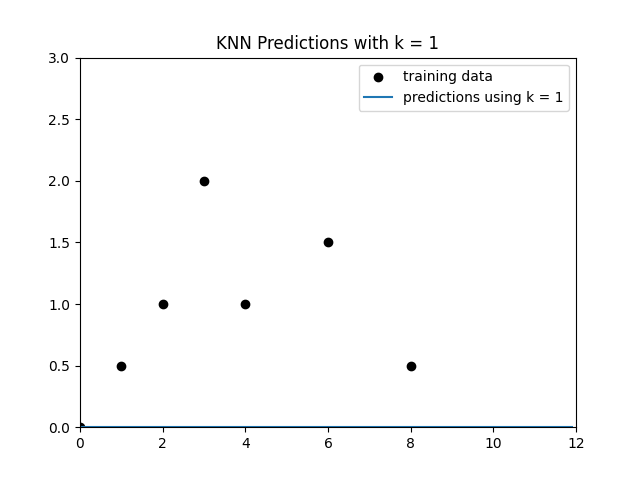
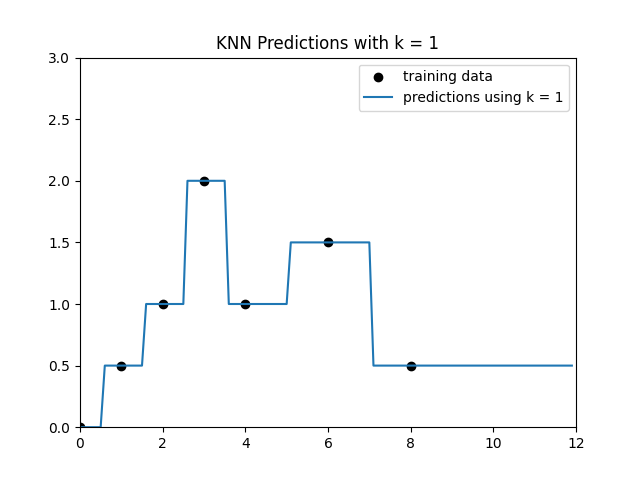
T1_P1 & working on T1_P2

diff --git a/HW1/T1_P2.py b/HW1/T1_P2.py
@@ -34,7 +34,7 @@ def takeSecond(elem):
     _, kernel_reg = elem
     return kernel_reg
 
-def predict_knn(k, tau=1):
+def predict_knn(k, tau):
     """Returns predictions for the values in x_test, using KNN predictor with the specified k.""" 
     y_test = np.zeros(len(x_test))
     
@@ -53,16 +53,17 @@ def predict_knn(k, tau=1):
         lst.sort(key=takeSecond, reverse=True)
 
     for n, lst in enumerate(k_dist):
-        kernel_reg = 0
+        kernel_reg = 0.
         for i, (j, dist) in enumerate(lst):
             if i < k:
                 x, y = data[j]
-                kernel_reg += y
-                print(f"{n}:")
-                print(kernel_reg)
+                kernel_reg += y / k
+                # print(f"{n}:")
+                # print(kernel_reg)
             else:
-                y_test[n] = (1/k) * kernel_reg
-    print(y_test)
+                y_test[n] = kernel_reg
+                # print(f"{n}:")
+                # print(y_test[n])
     return y_test
 
 
@@ -70,7 +71,7 @@ def plot_knn_preds(k):
     plt.xlim([0, 12])
     plt.ylim([0,3])
     
-    y_test = predict_knn(k=k)
+    y_test = predict_knn(k=k, tau=1)
     
     plt.scatter(x_train, y_train, label = "training data", color = 'black')
     plt.plot(x_test, y_test, label = "predictions using k = " + str(k))
